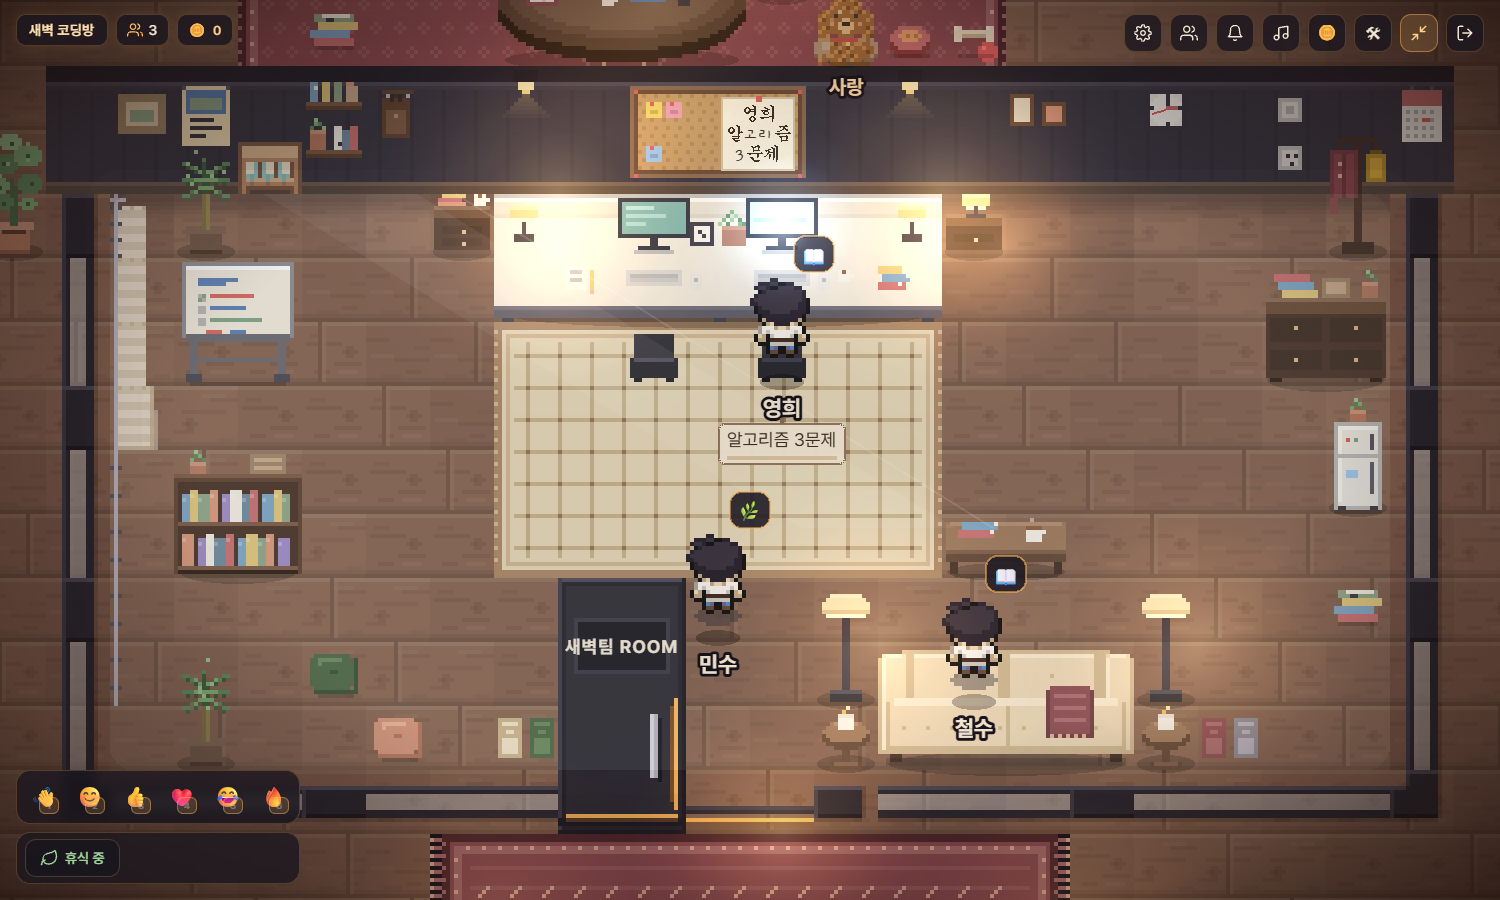
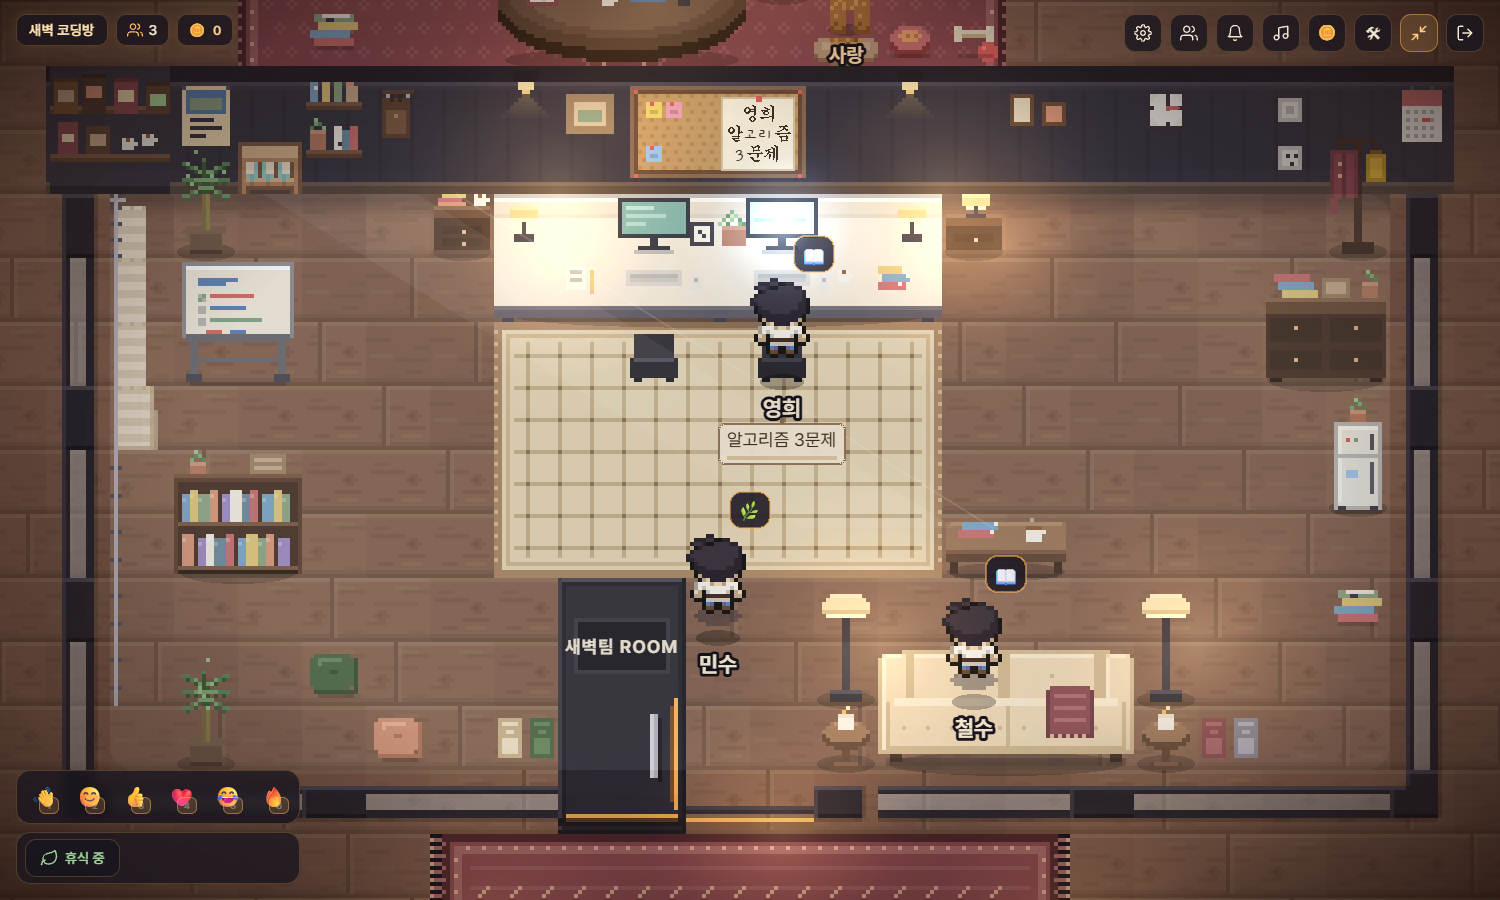
feat: 2609181523 커피 코너 동선 수정

Changed region(s): [[0.0, 0.0622, 0.1227, 0.28], [0.5213, 0.0, 0.5827, 0.1244], [0.368, 0.0933, 0.4293, 0.1556]]

diff --git a/test/stage17.test.js b/test/stage17.test.js
@@ -5,6 +5,8 @@
  *  - 스터디룸 배치: 러그는 책상 폭·4타일 깊이(격자) · 위를 보는 2인 소파가 아래 벽(문 오른쪽) · 낮은 테이블·램프·사이드 테이블 ·
  *    왼쪽 벽 화이트보드+2단 책장 · 오른쪽 벽 옷걸이·수납장·미니 냉장고 · 슬리퍼 2·쿠션 2(통과 가능) · 문/의자/모니터/코르크보드는 그대로 ·
  *    러그 밖 바닥이 보인다 · 문 → 의자·소파 앞은 1타일 이상 폭.
+ *  - 구역 간 동선: 커피 코너·푸프·라운지·회의·스터디룸·복도 사이 이웃 쌍마다 2타일 폭 통로(걸을 수 있는 2x2 블록의 연속)가 두 구역의 경계 상자 안에 하나 이상. 소품이 통로를 좁히면 실패.
+ *    커피 코너 동선 수정(원두 선반은 벽에·화분 제거·우유 상자/쓰레기통은 구석·프린터 수납장은 왼쪽 벽까지)과 사다리 선반·정수기 이동을 확인.
  *  - 상점 가구 통행 규칙(layout.js isolates): 놓으면/옮기면 스폰에서 닿던 칸이 못 가는 곳이 되는 배치는 'isolates' 로 거부. 월드(배치·이동·로드 회수)와 순수 함수 모두.
  */
 const test = require('node:test');
@@ -113,6 +115,78 @@ test('스터디룸 안: 문에서 두 의자·소파 좌석까지 이어지고, 
   for (const x of [25, 26, 27, 28]) assert.ok(free(x, 18), `소파 앞 (${x},18)`);
   for (let y = 12; y <= 20; y++) assert.ok(free(13, y), `커튼 옆 통로 (13,${y})`);
   for (let x = 13; x <= 31; x++) assert.ok(free(x, 15), `가로 통로 (${x},15)`);
+});
+
+// ── 구역 간 2타일 폭 통로 ─────────────────────────────────────────────
+/** 구역(타일 사각형, 포함 범위). 걸을 수 있는 2x2 블록(네 칸 모두 통과 가능·좌석 아님)이 이어져야 2타일 폭 통로다. */
+const ZONES = {
+  coffee: { x0: 3, y0: 10, x1: 11, y1: 17 },
+  pouf: { x0: 3, y0: 18, x1: 11, y1: 24 },
+  lounge: { x0: 14, y0: 5, x1: 28, y1: 9 },
+  meeting: { x0: 34, y0: 10, x1: 43, y1: 24 },
+  study: { x0: 13, y0: 12, x1: 32, y1: 20 },
+  corridor: { x0: 12, y0: 22, x1: 33, y1: 24 },
+};
+/** 이웃 구역 쌍 (직접 이어져야 하는 곳). 스터디룸은 아래 문으로만 복도와 만난다 */
+const ZONE_PAIRS = [['coffee', 'pouf'], ['coffee', 'lounge'], ['coffee', 'corridor'], ['pouf', 'corridor'], ['lounge', 'meeting'], ['meeting', 'corridor'], ['study', 'corridor']];
+const seatSet = new Set(room.seats.map((s) => `${s.x},${s.y}`));
+const walkable = (x, y) => x >= 0 && y >= 0 && x < room.width && y < room.height && !room.collision[y][x] && !seatSet.has(`${x},${y}`);
+const block = (x, y) => walkable(x, y) && walkable(x + 1, y) && walkable(x, y + 1) && walkable(x + 1, y + 1);
+const inRect = (x, y, r) => x >= r.x0 && x <= r.x1 && y >= r.y0 && y <= r.y1;
+const blockIn = (x, y, r) => inRect(x, y, r) && inRect(x + 1, y + 1, r);
+
+/** a 구역 안 블록에서 두 구역의 경계 상자 안 블록만 밟아 b 구역 안 블록에 닿는가 (2타일 폭 통로) */
+function wideConnected(a, b) {
+  const A = ZONES[a];
+  const B = ZONES[b];
+  const bb = { x0: Math.min(A.x0, B.x0), y0: Math.min(A.y0, B.y0), x1: Math.max(A.x1, B.x1), y1: Math.max(A.y1, B.y1) };
+  const q = [];
+  for (let y = A.y0; y <= A.y1; y++) for (let x = A.x0; x <= A.x1; x++) if (blockIn(x, y, A) && block(x, y)) q.push([x, y]);
+  const seen = new Set(q.map(([x, y]) => `${x},${y}`));
+  while (q.length) {
+    const [x, y] = q.shift();
+    if (blockIn(x, y, B)) return true;
+    for (const [dx, dy] of [[1, 0], [-1, 0], [0, 1], [0, -1]]) {
+      const nx = x + dx;
+      const ny = y + dy;
+      if (!blockIn(nx, ny, bb) || !block(nx, ny) || seen.has(`${nx},${ny}`)) continue;
+      seen.add(`${nx},${ny}`);
+      q.push([nx, ny]);
+    }
+  }
+  return false;
+}
+
+test('구역 간 동선: 이웃 구역 쌍마다 2타일 폭 통로가 하나 이상 (2x2 블록 BFS) · 각 구역 안에 2x2 블록이 있다', () => {
+  for (const id of Object.keys(ZONES)) {
+    const z = ZONES[id];
+    let n = 0;
+    for (let y = z.y0; y <= z.y1; y++) for (let x = z.x0; x <= z.x1; x++) if (blockIn(x, y, z) && block(x, y)) n++;
+    assert.ok(n > 0, `${id} 구역 안에 걸을 수 있는 2x2 블록`);
+  }
+  const narrow = ZONE_PAIRS.filter(([a, b]) => !wideConnected(a, b)).map(([a, b]) => `${a}-${b}`);
+  assert.deepEqual(narrow, [], `2타일 폭 통로가 없는 구역 쌍: ${narrow.join(' ')}`);
+});
+
+test('커피 코너 동선: 카운터 오른쪽 x 9..11 이 y 10..17 전부 비어 위(라운지)·아래(복도)로 트인다 · 원두 선반은 스터디룸 벽에 · 화분 제거 · 우유 상자/쓰레기통은 구석 · 사다리 선반·정수기 이동', () => {
+  for (let y = 10; y <= 17; y++) for (const x of [9, 10, 11]) assert.ok(free(x, y), `통로 (${x},${y})`);
+  assert.equal(propNamed('bean_shelf').length, 0, '바닥의 원두 선반은 없다');
+  assert.deepEqual(propNamed('bean_shelf_wall'), [{ name: 'bean_shelf_wall', x: 12, y: 10, w: 2, h: 2 }]);
+  assert.equal(TILES.objects.bean_shelf_wall.solid, true);
+  assert.deepEqual(propNamed('wall_frames_a').map((p) => [p.x, p.y]), [[11, 1], [20, 10]], '액자는 벽의 빈 자리로 ((18,10) 은 빈 벽으로 남긴다)');
+  assert.equal(propNamed('plant_tall_2').length, 0, '통로의 화분 제거');
+  assert.deepEqual(propNamed('milk_crate').map((p) => [p.x, p.y]), [[4, 18]]);
+  assert.deepEqual(propNamed('trash_bin').map((p) => [p.x, p.y]).sort((a, b) => a[0] - b[0]), [[3, 18], [30, 24], [41, 23]]);
+  assert.deepEqual(propNamed('ladder_shelf').map((p) => [p.x, p.y]), [[36, 10]]);
+  // 프린터 수납장은 왼쪽 벽까지 (오른쪽 끝 x 8) → 커피 코너 통로가 위쪽 복도(y 8..9)와 2칸 폭으로 꺾인다. 그 자리의 작은 수납장은 뺐다
+  assert.deepEqual(propNamed('cabinet_printer').map((p) => [p.x, p.y, p.w]), [[2, 7, 7]]);
+  assert.ok(!propNamed('cabinet_small').some((p) => p.x === 2 && p.y === 7));
+  for (const x of [9, 10]) for (const y of [7, 8]) assert.ok(free(x, y), `수납장 오른쪽 (${x},${y})`);
+  assert.deepEqual(propNamed('water_dispenser').map((p) => [p.x, p.y]), [[42, 22]]);
+  // 라운지 ↔ 회의 · 회의 ↔ 복도: 스터디룸 벽 옆 x 34..35 가 y 10..24 내내 비어 있다
+  for (let y = 10; y <= 24; y++) for (const x of [34, 35]) assert.ok(free(x, y), `x 34..35 통로 (${x},${y})`);
+  // 아래쪽: 카운터 앞줄(y 15) 에서 x 8 로 나가 y 15..17 (3칸) 이 트인다
+  for (let y = 15; y <= 17; y++) assert.ok(free(8, y), `(8,${y})`);
 });
 
 // ── 배치 ────────────────────────────────────────────────────────────

diff --git a/server/rooms/studyroom.js b/server/rooms/studyroom.js
@@ -14,6 +14,7 @@
  *         클라이언트가 동적으로 그리는 위치는 anchors (문 명패·코르크보드 목표 팻말·D-day 칠판·커피머신 김).
  * 17단계: 2인 스터디룸 안쪽 정리 — 러그는 책상 앞 4타일만(격자), 아래 벽에 위를 보는 2인 소파 코너, 왼쪽 벽 화이트보드·2단 책장, 오른쪽 벽 옷걸이·수납장·미니 냉장고.
  *         걸을 수 있는 모든 칸이 스폰에서 닿아야 하고(가구 사이 막힌 틈은 setSolid), 상점 가구도 고립 칸을 만들면 서버가 거부한다 (layout.js isolates).
+ *         동선 규칙: 구역(커피 코너·푸프·라운지·회의·스터디룸·복도) 사이에는 2타일 폭 통로가 하나 이상 있어야 하고 소품이 통로를 좁히면 안 된다 (test/stage17.test.js 가 2x2 블록 BFS 로 검증).
  */
 const { RoomBuilder } = require('./build');
 
@@ -43,13 +44,14 @@ function buildStudyRoom() {
   b.place('wall_frames_c', 2, 1); // 15단계: 액자 3개 묶음
   b.place('shelf_narrow_a', 2, 3);
   b.place('shelf_narrow_b', 2, 5);
-  b.place('cabinet_small', 2, 7);
   b.place('chalkboard_big', 4, 1);
   b.label(7.5, 4.0, 'Good\nStudy\nBetter\nTomorrow', { ...HAND, size: 24, color: '#e8dcc4', lineHeight: 0.98 });
   b.label(4.9, 6.1, '♡', { ...SANS, size: 12, color: '#d9a98f' }); // 15단계: 오른쪽 아래는 D-day 목록 자리라 왼쪽으로
   b.light(7.5, 1.2, 3.4, 0xffc46a, 0.6);
   b.anchor('dday', 10.1, 5.6, { w: 64, lines: 3 }); // 15단계: D-day 목록 (칠판 오른쪽 아래, 최대 3개)
-  b.place('cabinet_printer', 4, 7);
+  // 17단계 동선: 프린터 수납장을 왼쪽 벽까지 붙인다(작은 수납장 자리) → 오른쪽 끝이 x 8 이 되어 커피 코너 통로(x 9..11)가 위쪽 복도(y 8..9)와 2칸 폭으로 꺾인다
+  // (전에는 수납장 끝 x 10 과 스터디룸 벽 모서리 x 12 가 (11,9) 한 칸짜리 꺾임을 만들었다)
+  b.place('cabinet_printer', 2, 7);
   b.place('wall_frames_a', 11, 1);
   b.place('wall_clock', 12, 1);
   b.place('wall_vine', 13, 1); // 벽 덩굴은 창문 좌우에만
@@ -131,11 +133,11 @@ function buildStudyRoom() {
   b.light(6, 14.5, 2.8, 0xffd48a, 0.4);
   b.interactable('coffee', 'coffee', 6.5, 16, { hint: '커피' });
   b.anchor('steam', 6.5, 13.15); // 커피머신 김
-  b.place('plant_tall_2', 11, 11);
-  b.place('bean_shelf', 9, 12); // 15단계: 벽 선반 원두 봉지 (메뉴 보드 옆)
-  b.place('milk_crate', 9, 15);
-  b.place('trash_bin', 8, 16);
   b.place('rug_coffee', 4, 17);
+  // 17단계 동선: 카운터 오른쪽 끝(x 8) 옆 x 9..11 은 위(라운지)·아래(복도)로 이어지는 3칸 폭 통로 — 화분·원두 선반·우유 상자·쓰레기통을 치웠다.
+  // 우유 상자·쓰레기통은 카운터 아래 벽 쪽 구석(수납장 밑, x 3..4 y 18)으로.
+  b.place('trash_bin', 3, 18);
+  b.place('milk_crate', 4, 18);
 
   // ── 좌하단: 푸프 라운지 ────────────────────────────────────────────
   b.place('shelf_narrow_a', 2, 18);
@@ -158,7 +160,8 @@ function buildStudyRoom() {
   for (let x = 12; x <= 33; x++) b.place('wall_face', x, 10);
   b.fill(['floor_0_shadow', 'floor_1_shadow', 'floor_2_shadow'], 13, 12, 32, 12);
   // 위쪽 벽 장식: 액자·포스터·선반·스팟 조명 2·코르크보드(책상 위)·후크 가방·벽시계·스위치
-  b.place('wall_frames_a', 13, 10);
+  b.place('bean_shelf_wall', 12, 10); // 17단계 동선: 원두 선반은 스터디룸 위쪽 벽(모서리)에 건다 → 메뉴 보드 오른쪽 x 9..11 이 3칸 폭 통로
+  b.place('wall_frames_a', 20, 10); // (18,10) 은 상점 벽 포스터 테스트가 쓰는 빈 벽이라 비워 둔다
   b.place('wall_poster', 14, 10);
   b.place('wall_shelf', 15, 10);
   b.place('wall_shelf_b', 16, 10);
@@ -249,7 +252,7 @@ function buildStudyRoom() {
   b.light(27.5, 22.8, 2.6, 0xffc46a, 0.22);
 
   // ── 우측: 화이트보드 + 회의 테이블 8석 (노트북은 왼쪽 아래 의자 자리) ──
-  b.place('ladder_shelf', 35, 10);
+  b.place('ladder_shelf', 36, 10); // 17단계 동선: 스터디룸 벽 모서리(x 33) 옆 x 34..35 를 2칸 폭으로 (라운지 ↔ 회의 구역)
   b.place('whiteboard_big', 37, 11);
   b.label(39.2, 12.05, 'Small Steps\nBig Changes\n:)', { ...SANS, size: 10, weight: 500, color: '#4a5568', lineHeight: 1.3 });
   b.light(39.5, 12.2, 2.8, 0xffc46a, 0.35);
@@ -267,8 +270,8 @@ function buildStudyRoom() {
   b.place('cable_box', 37, 22);
   b.screen(36, 20, { x: 37 * 16 + 13, y: 16 * 16 + 63, w: 7, h: 4, kind: 'laptop' });
   b.place('plant_palm_0', 43, 22);
-  b.place('water_dispenser', 35, 22);
-  b.place('trash_bin', 35, 24);
+  b.place('water_dispenser', 42, 22); // 17단계 동선: 정수기·쓰레기통은 야자 옆 오른쪽 아래 구석으로 → x 34..35 y 22..24 가 2칸 폭 (회의 구역 ↔ 복도)
+  b.place('trash_bin', 41, 23);
   b.light(43.5, 13, 1.8, 0xffc46a, 0.45);
   b.light(43.5, 18, 1.8, 0xffc46a, 0.45);
   b.light(43.5, 20.5, 1.8, 0xffc46a, 0.4);

diff --git a/tools/screenshot_stage17.js b/tools/screenshot_stage17.js
@@ -1,10 +1,11 @@
 'use strict';
 /**
  * 17단계(2인 스터디룸 안쪽 정리) 스크린샷 (puppeteer-core + 로컬 Chrome). 서버를 스스로 띄운다 (STORE=memory).
- *   node tools/screenshot_stage17.js [outDir]
+ *   node tools/screenshot_stage17.js [outDir] [--only=study,coffee]
  * 출력:
  *   s17_study.png — 2인 스터디룸 확대 (격자 러그 · 아래 벽 소파 코너 · 왼쪽 화이트보드/2단 책장 · 오른쪽 옷걸이/수납장/미니 냉장고 · 슬리퍼/쿠션)
  *                   영희는 책상 의자, 철수는 소파, 나는 문 앞 통로에 서 있다.
+ *   s17_coffee.png — 커피 코너 확대 (카운터 오른쪽 x 9..11 통로가 위·아래로 트임 · 원두 선반은 스터디룸 벽에 · 우유 상자·쓰레기통은 구석)
  */
 const path = require('node:path');
 const fs = require('node:fs');
@@ -15,7 +16,10 @@ const { startServer } = require('../server/index');
 process.env.STORE = 'memory';
 const CHROME = process.env.CHROME_PATH || 'C:/Program Files/Google/Chrome/Application/chrome.exe';
 const ARGS = ['--no-sandbox', '--use-gl=angle', '--use-angle=swiftshader', '--enable-unsafe-swiftshader', '--disable-background-timer-throttling', '--disable-renderer-backgrounding', '--disable-backgrounding-occluded-windows'];
-const out = process.argv[2] || path.join(__dirname, '..', 'screenshots');
+const args = process.argv.slice(2);
+const out = args.find((a) => !a.startsWith('--')) || path.join(__dirname, '..', 'screenshots');
+const only = (args.find((a) => a.startsWith('--only=')) || '').slice(7).split(',').filter(Boolean);
+const want = (k) => !only.length || only.includes(k);
 fs.mkdirSync(out, { recursive: true });
 const sleep = (ms) => new Promise((r) => setTimeout(r, ms));
 const quiet = { log() {}, warn() {}, error() {} };
@@ -67,11 +71,24 @@ async function bot(base, world, nickname, code, tx, ty, facing = 'down') {
   await page.evaluate((x, y) => { const s = window.NSM.scene; s.me.setPosition(x, y); s.me.setFacing('up'); s.lastSent = null; s.correction = null; }, me.x, me.y);
   await page.evaluate(() => window.NSM.ui.setWide(true));
   await sleep(400);
-  await page.evaluate(() => { const s = window.NSM.scene; s.setClockOverride(20); s.cameras.main.stopFollow(); s.cameras.main.setZoom(2); s.cameras.main.centerOn(23 * 32, 16 * 32); });
-  await sleep(1000);
-  const file = path.join(out, 's17_study.png');
-  await page.screenshot({ path: file, clip: { x: 0, y: 0, width: 1500, height: 900 }, captureBeyondViewport: false });
-  console.log('saved', file);
+  const view = async (hour, zoom, cx, cy) => {
+    await page.evaluate((h, z, x, y) => { const s = window.NSM.scene; s.setClockOverride(h); s.cameras.main.stopFollow(); s.cameras.main.setZoom(z); s.cameras.main.centerOn(x, y); }, hour, zoom, cx, cy);
+    await sleep(1000);
+  };
+  const shot = async (name) => {
+    const file = path.join(out, name);
+    await page.screenshot({ path: file, clip: { x: 0, y: 0, width: 1500, height: 900 }, captureBeyondViewport: false });
+    console.log('saved', file);
+  };
+  if (want('study')) {
+    await view(20, 2, 23 * T, 16 * T);
+    await shot('s17_study.png');
+  }
+  if (want('coffee')) {
+    // 커피 코너: 메뉴 보드·카운터·진열장 + 오른쪽 통로(x 9..11)와 스터디룸 벽의 원두 선반까지
+    await view(15, 2.2, 8.5 * T, 14 * T);
+    await shot('s17_coffee.png');
+  }
 
   await browser.close();
   for (const b of bots) b.s.close();

diff --git a/tools/build_assets.py b/tools/build_assets.py
@@ -427,6 +427,7 @@ def build_objects():
     add("mini_fridge", S2.mini_fridge(), top=1)
     add("cushion_floor_a", S2.cushion_floor(0), solid=False)
     add("cushion_floor_b", S2.cushion_floor(1), solid=False)
+    add("bean_shelf_wall", over(V.wall_block(2, 2), S.bean_shelf()))  # 커피 코너 동선: 원두 선반을 스터디룸 위쪽 벽에 건다 (벽 배경 포함)
 
 
 # ── 아틀라스 패킹 ──────────────────────────────────────────────────────
